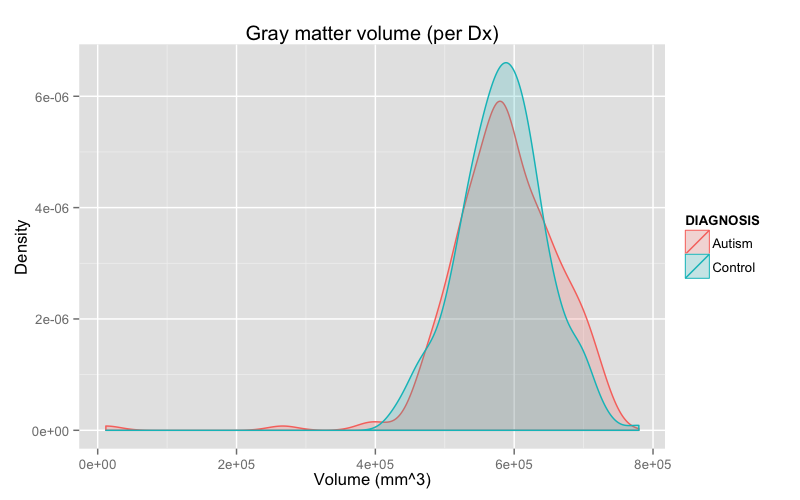
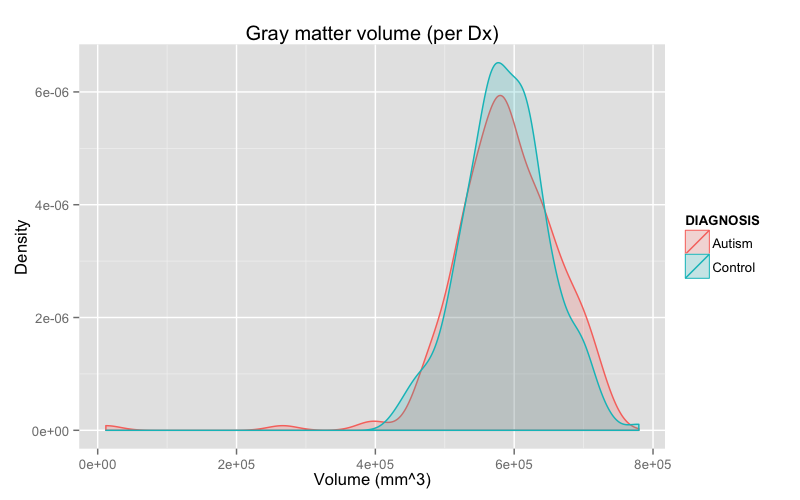
ENH:  Cleaning the data.

diff --git a/index.html b/index.html
@@ -95,19 +95,36 @@ code > span.er { color: #ff0000; font-weight: bold; }
     <h3 class="date">November 23, 2014</h3>
 </section>
 
-<section><section id="demographics" class="titleslide slide level1"><h1>Demographics</h1></section><section id="subset-criteria" class="slide level2">
-<h1>Subset Criteria</h1>
-<ul>
-<li>Males</li>
-<li>age: [6, 35]</li>
-<li>handedness: right</li>
-</ul>
+<section><section id="demographics" class="titleslide slide level1"><h1>Demographics</h1></section><section id="preprocessing-subset-and-matching" class="slide level2">
+<h1>Preprocessing: subset and matching</h1>
+<pre class="sourceCode r"><code class="sourceCode r">results &lt;-<span class="st"> </span><span class="kw">read.csv</span>( <span class="st">&#39;./Data/labelresultsAnts.csv&#39;</span> )
+resultsSubset &lt;-<span class="st"> </span>results[<span class="kw">which</span>( results$gender ==<span class="st"> </span><span class="dv">1</span> &amp;<span class="st"> </span>results$age &gt;=<span class="st"> </span><span class="dv">6</span> &amp;<span class="st"> </span>results$age &lt;=<span class="st"> </span><span class="dv">35</span> &amp;<span class="st"> </span>results$handedness ==<span class="st"> &#39;R&#39;</span> ),]
+drops &lt;-<span class="st"> </span><span class="kw">c</span>( <span class="st">&quot;area.5th.ventricle&quot;</span>, <span class="st">&quot;area.left.lesion&quot;</span>, <span class="st">&quot;area.right.lesion&quot;</span>, <span class="st">&quot;area.left.vessel&quot;</span>, <span class="st">&quot;area.right.vessel&quot;</span>, <span class="st">&quot;area.optic.chiasm&quot;</span>,
+<span class="st">&quot;volume.5th.ventricle&quot;</span>, <span class="st">&quot;volume.left.lesion&quot;</span>, <span class="st">&quot;volume.right.lesion&quot;</span>, <span class="st">&quot;volume.left.vessel&quot;</span>, <span class="st">&quot;volume.right.vessel&quot;</span>, <span class="st">&quot;volume.optic.chiasm&quot;</span> )
+resultsSubset &lt;-<span class="st"> </span>resultsSubset[, !( <span class="kw">names</span>( resultsSubset ) %in%<span class="st"> </span>drops )]
+
+<span class="co"># match the data based on age and fiq</span>
+<span class="kw">library</span>( MatchIt )</code></pre>
+<pre><code>## Loading required package: MASS</code></pre>
+<pre class="sourceCode r"><code class="sourceCode r">resultsDf &lt;-<span class="st"> </span><span class="kw">data.frame</span>( <span class="dt">subject.id =</span> resultsSubset$subject.id,
+                         <span class="dt">dx.group =</span> resultsSubset$dx.group,
+                         <span class="dt">age =</span> resultsSubset$age,
+                         <span class="dt">fiq =</span> resultsSubset$fiq
+                       )
+resultsDf$dx.group &lt;-<span class="st"> </span><span class="kw">as.numeric</span>( resultsDf$dx.group ) -<span class="st"> </span><span class="dv">1</span>
+resultsDf &lt;-<span class="st"> </span><span class="kw">na.omit</span>( resultsDf )
+resultsDf &lt;-<span class="st"> </span><span class="kw">match.data</span>( <span class="kw">matchit</span>( dx.group ~<span class="st"> </span>age +<span class="st"> </span>fiq, <span class="dt">data =</span> resultsDf, <span class="dt">method =</span> <span class="st">&quot;nearest&quot;</span>, <span class="dt">discard =</span> <span class="st">&quot;both&quot;</span> ) )</code></pre>
+<pre><code>## Warning: Fewer control than treated units and matching without
+## replacement.  Not all treated units will receive a match.  Treated units
+## will be matched in the order specified by m.order: largest</code></pre>
+<pre class="sourceCode r"><code class="sourceCode r">resultsMatched &lt;-<span class="st"> </span>resultsSubset[<span class="kw">which</span>( <span class="kw">is.element</span>( resultsSubset$subject.id, resultsDf$subject.id ) ), ]
+<span class="kw">write.csv</span>( resultsMatched, <span class="st">&#39;./Data/labelresultsANTsSubset.csv&#39;</span>, <span class="dt">quote =</span> <span class="ot">FALSE</span>, <span class="dt">row.names =</span> <span class="ot">FALSE</span> )</code></pre>
 </section><section id="all-sites" class="slide level2">
 <h1>All sites</h1>
-<p>Total number of studies = 506</p>
-<p>males = 506, females = 0</p>
-<p>autism = 240, controls = 266</p>
-<p>rights = 506, lefts = 0, ambis = 0</p>
+<p>Total number of studies = 450</p>
+<p>males = 450, females = 0</p>
+<p>autism = 225, controls = 225</p>
+<p>rights = 450, lefts = 0, ambis = 0</p>
 </section><section id="age-distribution" class="slide level2">
 <h1>Age distribution</h1>
 <p><img src="Figures/ageDistribution.png" /></p>
@@ -133,10 +150,10 @@ code > span.er { color: #ff0000; font-weight: bold; }
 </section></section>
 <section><section id="per-site-demographics" class="titleslide slide level1"><h1>Per site demographics</h1></section><section id="site-demographics" class="slide level2">
 <h1>Site demographics</h1>
-<p>CALTECH: n = 12 (males = 12, females = 0)<br /> CMU: n = 15 (males = 15, females = 0)<br /> KKI: n = 33 (males = 33, females = 0)<br /> LEUVEN_1: n = 25 (males = 25, females = 0)<br /> LEUVEN_2: n = 24 (males = 24, females = 0)<br /> MAX_MUN: n = 40 (males = 40, females = 0)<br /> OHSU: n = 25 (males = 25, females = 0)<br /> OLIN: n = 23 (males = 23, females = 0)<br /> PITT: n = 39 (males = 39, females = 0)<br /> SDSU: n = 22 (males = 22, females = 0)</p>
+<p>CALTECH: n = 11 (males = 11, females = 0)<br /> CMU: n = 15 (males = 15, females = 0)<br /> KKI: n = 27 (males = 27, females = 0)<br /> LEUVEN_1: n = 25 (males = 25, females = 0)<br /> MAX_MUN: n = 38 (males = 38, females = 0)<br /> OHSU: n = 19 (males = 19, females = 0)<br /> OLIN: n = 22 (males = 22, females = 0)<br /> PITT: n = 36 (males = 36, females = 0)<br /> SDSU: n = 22 (males = 22, females = 0)<br /> STANFORD: n = 18 (males = 18, females = 0)</p>
 </section><section id="site-demographics-continued" class="slide level2">
 <h1>Site demographics (continued)</h1>
-<p>STANFORD: n = 25 (males = 25, females = 0)<br /> TRINITY: n = 43 (males = 43, females = 0)<br /> UCLA_1: n = 54 (males = 54, females = 0)<br /> UCLA_2: n = 18 (males = 18, females = 0)<br /> UM_1: n = 53 (males = 53, females = 0)<br /> UM_2: n = 27 (males = 27, females = 0)<br /> YALE: n = 28 (males = 28, females = 0)</p>
+<p>TRINITY: n = 43 (males = 43, females = 0)<br /> UCLA_1: n = 53 (males = 53, females = 0)<br /> UCLA_2: n = 18 (males = 18, females = 0)<br /> UM_1: n = 50 (males = 50, females = 0)<br /> UM_2: n = 27 (males = 27, females = 0)<br /> YALE: n = 26 (males = 26, females = 0)</p>
 </section><section id="age" class="slide level2">
 <h1>Age</h1>
 <p><img src="Figures/siteAgeDistribution.png" /></p>
@@ -162,15 +179,12 @@ code > span.er { color: #ff0000; font-weight: bold; }
 </section></section>
 <section><section id="paper-results" class="titleslide slide level1"><h1>Paper results</h1></section><section id="results-intracranial-volume" class="slide level2">
 <h1>Results: Intracranial volume</h1>
-<!-- ANOVA:  `total.volume ~ dx.group + site + age + fiq` -->
-
-
 <pre class="sourceCode r"><code class="sourceCode r"><span class="kw">library</span>( xtable )
 results &lt;-<span class="st"> </span><span class="kw">read.csv</span>( <span class="st">&#39;./Data/labelresultsAntsSubset.csv&#39;</span> )
 fit &lt;-<span class="st"> </span><span class="kw">aov</span>( total.volume ~<span class="st"> </span>dx.group +<span class="st"> </span>site +<span class="st"> </span>age +<span class="st"> </span>fiq, <span class="dt">data =</span> results )
-<span class="kw">print</span>(<span class="kw">xtable</span>(<span class="kw">anova</span>(fit)), <span class="dt">type =</span> <span class="st">&quot;html&quot;</span>)</code></pre>
+<span class="kw">print</span>( <span class="kw">xtable</span>( <span class="kw">anova</span>( fit ) ), <span class="dt">type =</span> <span class="st">&quot;html&quot;</span> )</code></pre>
 <!-- html table generated in R 3.1.1 by xtable 1.7-3 package -->
-<!-- Mon Nov 24 15:46:39 2014 -->
+<!-- Mon Nov 24 21:41:58 2014 -->
 <TABLE border=1>
 <TR> <TH>  </TH> <TH> 
 Df
@@ -188,24 +202,24 @@ dx.group
 </TD> <TD align="right"> 
 1
 </TD> <TD align="right"> 
-37011484306.78
+635506407.47
 </TD> <TD align="right"> 
-37011484306.78
+635506407.47
 </TD> <TD align="right"> 
-2.21
+0.04
 </TD> <TD align="right"> 
-0.1378
+0.8445
 </TD> </TR>
   <TR> <TD> 
 site
 </TD> <TD align="right"> 
 15
 </TD> <TD align="right"> 
-3172830475532.21
+2744732545213.81
 </TD> <TD align="right"> 
-211522031702.15
+182982169680.92
 </TD> <TD align="right"> 
-12.63
+11.09
 </TD> <TD align="right"> 
 0.0000
 </TD> </TR>
@@ -214,11 +228,11 @@ age
 </TD> <TD align="right"> 
 1
 </TD> <TD align="right"> 
-414311471003.27
+454992242535.23
 </TD> <TD align="right"> 
-414311471003.27
+454992242535.23
 </TD> <TD align="right"> 
-24.74
+27.58
 </TD> <TD align="right"> 
 0.0000
 </TD> </TR>
@@ -227,22 +241,22 @@ fiq
 </TD> <TD align="right"> 
 1
 </TD> <TD align="right"> 
-83075232611.66
+2332337220.80
 </TD> <TD align="right"> 
-83075232611.66
+2332337220.80
 </TD> <TD align="right"> 
-4.96
+0.14
 </TD> <TD align="right"> 
-0.0264
+0.7071
 </TD> </TR>
   <TR> <TD> 
 Residuals
 </TD> <TD align="right"> 
-463
+431
 </TD> <TD align="right"> 
-7754563703255.55
+7111246085396.22
 </TD> <TD align="right"> 
-16748517717.61
+16499410870.99
 </TD> <TD align="right">  </TD> <TD align="right">  </TD> </TR>
    </TABLE>
 
